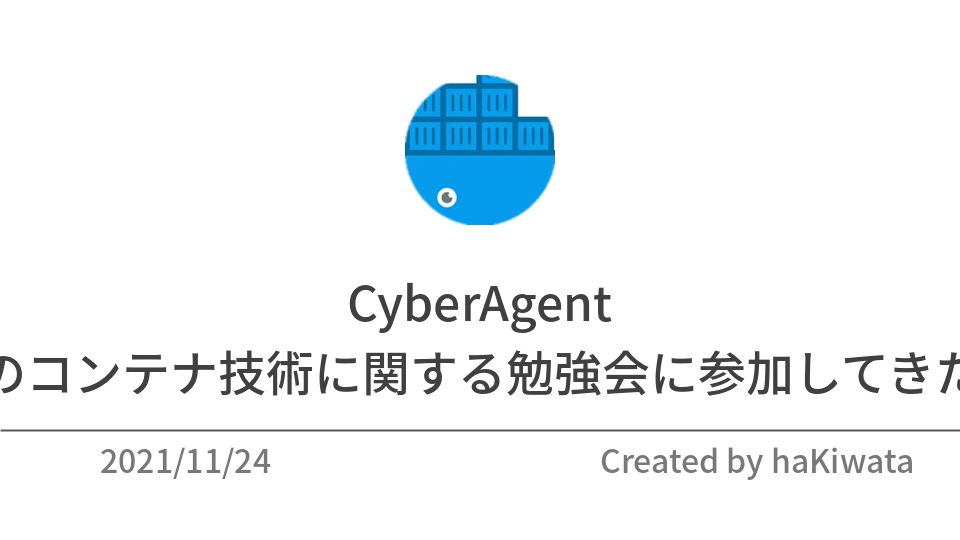
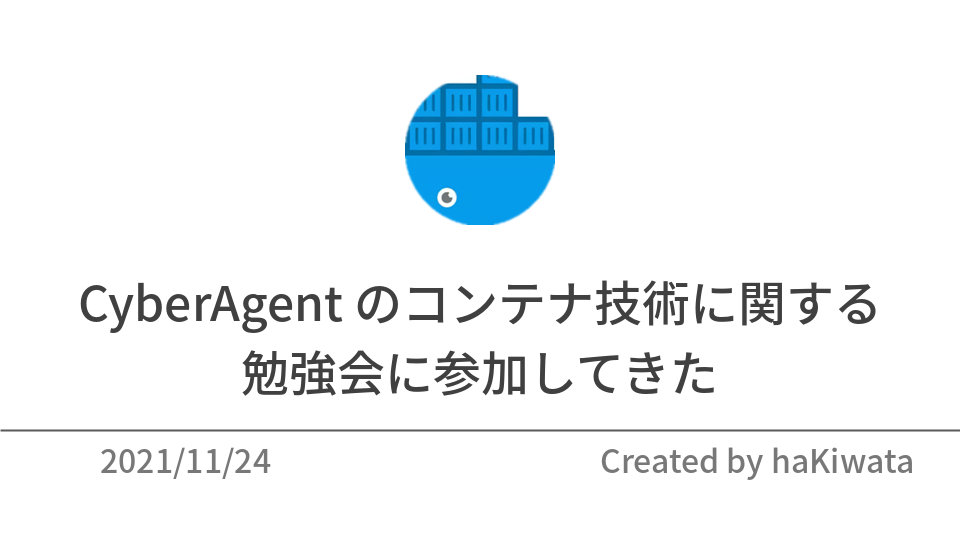
deploy: c742d2cb622a69f9c244a3b917fd591c2d45343e

Changed region(s): [[0.0, 0.6519, 0.875, 0.7407], [0.0625, 0.5037, 0.9375, 0.6222], [0.875, 0.6519, 1.0, 0.7407]]

diff --git a/post/20211124/index.html b/post/20211124/index.html
@@ -1,4 +1,8 @@
-<!doctype html><html lang=en><head><meta charset=utf-8><meta name=viewport content="width=device-width,initial-scale=1"><meta name=generator content="Hugo 0.83.1"><title>CyberAgent のコンテナ技術に関する勉強会に参加してきた - haKiwata</title><meta name=description content="概要  先日 2021/11/24 に CyberAgent が主催するCA 1Day Youth Boot Camp バックエンド/インフラエンジニア編：現場で使うコンテナ技術、Kubernetes＆コンテナ入門と言う勉強会に参加してきました。これは、CyberAgent での社内の研修を 1 日体験できるイベントでした。今回は、その参加記を書きたいと思います。  参加したキッカケ  普段から Docker や Kubenetes を活用して趣味のプログラムや研究のコードを書いたりしています。しかし、これまでこれらの技術はほとんど独学で勉強をしてきました。そのため、自分の理解のレベル感が客観的に把握したことがありませんでした。また、最近 ES を書いたり外部の勉強会に参加するといった活動をしていませんでした。そんな時に、Twitter でたまたまこのイベントを見つけ、久しぶりにこういったチャンスに挑んでみたいと思い参加してみました。  学んだこと  Kubernetes の基礎編 で Kubernetes の基本的なコンセプトや原理を復習できました。 コンテナレジストリのミラーリポジトリに mirror.gcr.io 活用すると、Docker Hub のレート制限を抑えることができることを初めて知りました。 Kubernetes in Docker (kind) と言う Docker コンテナのノードを使ってローカルに Kubernetes クラスタを実行するためのツールを初めて知りました。 kubectl edit コマンドや kubectl run コマンドを始めて使いました。 Kubernetes 内の Pod からしかアクセスできない Pod に対して、busybox と kubectl run コマンドを用いたデバッグを初めて知りました。  感想  学んだことに書いたように、知らなかったことをたくさん知るキッカケになりました。また、特に Kubernetes の研修に関しては、CyberAgentHack/one-day-youth-bootcamp-ciu にある演習問題を解いて手を動かす時間も設けられていたので、とても楽しかったです！ (演習問題は簡単でした。) しかし、この勉強会で学んだことと実際に現場で必要な知識や技術力にはかなり乖離があると感じました。そのため、Kubernetes を実際に運用するレベルのアプリケーションの実装を検討してみたいと思いました🤞  参考  コンテナ技術入門 Kubernetes の基礎編 CyberAgentHack/one-day-youth-bootcamp-ciu Container Registry の Docker Hub ミラーの使用 kind busybox どのリクエストにも決まったレスポンスを返す、http-echoサーバー  "><link rel="shortcut icon" href=https://hakiwata.jp/img/images/favicon.ico><link rel=stylesheet href=https://hakiwata.jp/css/ui.css><link rel=stylesheet href=https://hakiwata.jp/css/main.css><link rel=stylesheet href="https://fonts.googleapis.com/css?family=Fira+Mono|Lato|Raleway"><meta property="og:title" content="CyberAgent のコンテナ技術に関する勉強会に参加してきた"><meta property="og:description" content="概要  先日 2021/11/24 に CyberAgent が主催するCA 1Day Youth Boot Camp バックエンド/インフラエンジニア編：現場で使うコンテナ技術、Kubernetes＆コンテナ入門と言う勉強会に参加してきました。これは、CyberAgent での社内の研修を 1 日体験できるイベントでした。今回は、その参加記を書きたいと思います。  参加したキッカケ  普段から Docker や Kubenetes を活用して趣味のプログラムや研究のコードを書いたりしています。しかし、これまでこれらの技術はほとんど独学で勉強をしてきました。そのため、自分の理解のレベル感が客観的に把握したことがありませんでした。また、最近 ES を書いたり外部の勉強会に参加するといった活動をしていませんでした。そんな時に、Twitter でたまたまこのイベントを見つけ、久しぶりにこういったチャンスに挑んでみたいと思い参加してみました。  学んだこと  Kubernetes の基礎編 で Kubernetes の基本的なコンセプトや原理を復習できました。 コンテナレジストリのミラーリポジトリに mirror.gcr.io 活用すると、Docker Hub のレート制限を抑えることができることを初めて知りました。 Kubernetes in Docker (kind) と言う Docker コンテナのノードを使ってローカルに Kubernetes クラスタを実行するためのツールを初めて知りました。 kubectl edit コマンドや kubectl run コマンドを始めて使いました。 Kubernetes 内の Pod からしかアクセスできない Pod に対して、busybox と kubectl run コマンドを用いたデバッグを初めて知りました。  感想  学んだことに書いたように、知らなかったことをたくさん知るキッカケになりました。また、特に Kubernetes の研修に関しては、CyberAgentHack/one-day-youth-bootcamp-ciu にある演習問題を解いて手を動かす時間も設けられていたので、とても楽しかったです！ (演習問題は簡単でした。) しかし、この勉強会で学んだことと実際に現場で必要な知識や技術力にはかなり乖離があると感じました。そのため、Kubernetes を実際に運用するレベルのアプリケーションの実装を検討してみたいと思いました🤞  参考  コンテナ技術入門 Kubernetes の基礎編 CyberAgentHack/one-day-youth-bootcamp-ciu Container Registry の Docker Hub ミラーの使用 kind busybox どのリクエストにも決まったレスポンスを返す、http-echoサーバー  "><meta property="og:type" content="article"><meta property="og:url" content="https://hakiwata.jp/post/20211124/"><meta property="og:image" content="https://hakiwata.jp/"><meta property="article:section" content="post"><meta property="article:published_time" content="2021-11-30T18:35:39+00:00"><meta property="article:modified_time" content="2021-11-30T18:35:39+00:00"><meta name=twitter:card content="summary_large_image"><meta name=twitter:site content="@bilmnpvovqnmlid"><meta name=twitter:creator content="@bilmnpvovqnmlid"><meta property="twitter:image" content="https://hakiwata.jp/img/images/20211124.png"><meta property="og:title" content="CyberAgent のコンテナ技術に関する勉強会に参加してきた"><meta property="og:url" content="https://hakiwata.jp/post/20211124/"><meta property="og:image" content="https://hakiwata.jp/img/images/20211124.png"><meta property="og:description" content><script async src="https://www.googletagmanager.com/gtag/js?id=G-YXCYPL25QW"></script><script>var doNotTrack=!1;if(!doNotTrack){window.dataLayer=window.dataLayer||[];function gtag(){dataLayer.push(arguments)}gtag('js',new Date),gtag('config','G-YXCYPL25QW',{anonymize_ip:!1})}</script></head><body><header class="container no-print"><div class=u-header><nav class=bar><ul><li><a href=https://hakiwata.jp/><img class=icon-text src=https://hakiwata.jp/img/prev.svg></a></li><li><a href=https://hakiwata.jp/about>About</a></li><li><a href=https://hakiwata.jp/log>Log</a></li><li><a href=https://hakiwata.jp/post>Post</a></li><li><a href=https://hakiwata.jp/scraps>Scraps</a></li><li><a href=https://hakiwata.jp/tags>Tags</a></li></ul></nav></div></header><main class=container><article><header><hgroup id=brand><h1>CyberAgent のコンテナ技術に関する勉強会に参加してきた</h1><h5><time datetime="2021-11-30 18:35:39 +0000 UTC">Nov 30, 2021</time>
+<!doctype html><html lang=en><head><meta charset=utf-8><meta name=viewport content="width=device-width,initial-scale=1"><meta name=generator content="Hugo 0.83.1"><title>CyberAgent のコンテナ技術に関する
+勉強会に参加してきた - haKiwata</title><meta name=description content="概要  先日 2021/11/24 に CyberAgent が主催するCA 1Day Youth Boot Camp バックエンド/インフラエンジニア編：現場で使うコンテナ技術、Kubernetes＆コンテナ入門と言う勉強会に参加してきました。これは、CyberAgent での社内の研修を 1 日体験できるイベントでした。今回は、その参加記を書きたいと思います。  参加したキッカケ  普段から Docker や Kubenetes を活用して趣味のプログラムや研究のコードを書いたりしています。しかし、これまでこれらの技術はほとんど独学で勉強をしてきました。そのため、自分の理解のレベル感が客観的に把握したことがありませんでした。また、最近 ES を書いたり外部の勉強会に参加するといった活動をしていませんでした。そんな時に、Twitter でたまたまこのイベントを見つけ、久しぶりにこういったチャンスに挑んでみたいと思い参加してみました。  学んだこと  Kubernetes の基礎編 で Kubernetes の基本的なコンセプトや原理を復習できました。 コンテナレジストリのミラーリポジトリに mirror.gcr.io 活用すると、Docker Hub のレート制限を抑えることができることを初めて知りました。 Kubernetes in Docker (kind) と言う Docker コンテナのノードを使ってローカルに Kubernetes クラスタを実行するためのツールを初めて知りました。 kubectl edit コマンドや kubectl run コマンドを始めて使いました。 Kubernetes 内の Pod からしかアクセスできない Pod に対して、busybox と kubectl run コマンドを用いたデバッグを初めて知りました。  感想  学んだことに書いたように、知らなかったことをたくさん知るキッカケになりました。また、特に Kubernetes の研修に関しては、CyberAgentHack/one-day-youth-bootcamp-ciu にある演習問題を解いて手を動かす時間も設けられていたので、とても楽しかったです！ (演習問題は簡単でした。) しかし、この勉強会で学んだことと実際に現場で必要な知識や技術力にはかなり乖離があると感じました。そのため、Kubernetes を実際に運用するレベルのアプリケーションの実装を検討してみたいと思いました🤞  参考  コンテナ技術入門 Kubernetes の基礎編 CyberAgentHack/one-day-youth-bootcamp-ciu Container Registry の Docker Hub ミラーの使用 kind busybox どのリクエストにも決まったレスポンスを返す、http-echoサーバー  "><link rel="shortcut icon" href=https://hakiwata.jp/img/images/favicon.ico><link rel=stylesheet href=https://hakiwata.jp/css/ui.css><link rel=stylesheet href=https://hakiwata.jp/css/main.css><link rel=stylesheet href="https://fonts.googleapis.com/css?family=Fira+Mono|Lato|Raleway"><meta property="og:title" content="CyberAgent のコンテナ技術に関する
+勉強会に参加してきた"><meta property="og:description" content="概要  先日 2021/11/24 に CyberAgent が主催するCA 1Day Youth Boot Camp バックエンド/インフラエンジニア編：現場で使うコンテナ技術、Kubernetes＆コンテナ入門と言う勉強会に参加してきました。これは、CyberAgent での社内の研修を 1 日体験できるイベントでした。今回は、その参加記を書きたいと思います。  参加したキッカケ  普段から Docker や Kubenetes を活用して趣味のプログラムや研究のコードを書いたりしています。しかし、これまでこれらの技術はほとんど独学で勉強をしてきました。そのため、自分の理解のレベル感が客観的に把握したことがありませんでした。また、最近 ES を書いたり外部の勉強会に参加するといった活動をしていませんでした。そんな時に、Twitter でたまたまこのイベントを見つけ、久しぶりにこういったチャンスに挑んでみたいと思い参加してみました。  学んだこと  Kubernetes の基礎編 で Kubernetes の基本的なコンセプトや原理を復習できました。 コンテナレジストリのミラーリポジトリに mirror.gcr.io 活用すると、Docker Hub のレート制限を抑えることができることを初めて知りました。 Kubernetes in Docker (kind) と言う Docker コンテナのノードを使ってローカルに Kubernetes クラスタを実行するためのツールを初めて知りました。 kubectl edit コマンドや kubectl run コマンドを始めて使いました。 Kubernetes 内の Pod からしかアクセスできない Pod に対して、busybox と kubectl run コマンドを用いたデバッグを初めて知りました。  感想  学んだことに書いたように、知らなかったことをたくさん知るキッカケになりました。また、特に Kubernetes の研修に関しては、CyberAgentHack/one-day-youth-bootcamp-ciu にある演習問題を解いて手を動かす時間も設けられていたので、とても楽しかったです！ (演習問題は簡単でした。) しかし、この勉強会で学んだことと実際に現場で必要な知識や技術力にはかなり乖離があると感じました。そのため、Kubernetes を実際に運用するレベルのアプリケーションの実装を検討してみたいと思いました🤞  参考  コンテナ技術入門 Kubernetes の基礎編 CyberAgentHack/one-day-youth-bootcamp-ciu Container Registry の Docker Hub ミラーの使用 kind busybox どのリクエストにも決まったレスポンスを返す、http-echoサーバー  "><meta property="og:type" content="article"><meta property="og:url" content="https://hakiwata.jp/post/20211124/"><meta property="og:image" content="https://hakiwata.jp/"><meta property="article:section" content="post"><meta property="article:published_time" content="2021-11-30T18:35:39+00:00"><meta property="article:modified_time" content="2021-11-30T18:35:39+00:00"><meta name=twitter:card content="summary_large_image"><meta name=twitter:site content="@bilmnpvovqnmlid"><meta name=twitter:creator content="@bilmnpvovqnmlid"><meta property="twitter:image" content="https://hakiwata.jp/img/images/20211124.png"><meta property="og:title" content="CyberAgent のコンテナ技術に関する
+勉強会に参加してきた"><meta property="og:url" content="https://hakiwata.jp/post/20211124/"><meta property="og:image" content="https://hakiwata.jp/img/images/20211124.png"><meta property="og:description" content><script async src="https://www.googletagmanager.com/gtag/js?id=G-YXCYPL25QW"></script><script>var doNotTrack=!1;if(!doNotTrack){window.dataLayer=window.dataLayer||[];function gtag(){dataLayer.push(arguments)}gtag('js',new Date),gtag('config','G-YXCYPL25QW',{anonymize_ip:!1})}</script></head><body><header class="container no-print"><div class=u-header><nav class=bar><ul><li><a href=https://hakiwata.jp/><img class=icon-text src=https://hakiwata.jp/img/prev.svg></a></li><li><a href=https://hakiwata.jp/about>About</a></li><li><a href=https://hakiwata.jp/log>Log</a></li><li><a href=https://hakiwata.jp/post>Post</a></li><li><a href=https://hakiwata.jp/scraps>Scraps</a></li><li><a href=https://hakiwata.jp/tags>Tags</a></li></ul></nav></div></header><main class=container><article><header><hgroup id=brand><h1>CyberAgent のコンテナ技術に関する
+勉強会に参加してきた</h1><h5><time datetime="2021-11-30 18:35:39 +0000 UTC">Nov 30, 2021</time>
 <span class=no-print>-
 <a href=https://hakiwata.jp/tags/cyberagent>CyberAgent</a>
 <a href=https://hakiwata.jp/tags/docker>Docker</a>

diff --git a/post/20211110/index.html b/post/20211110/index.html
@@ -8,7 +8,8 @@
 <a href=https://hakiwata.jp/tags/docker-compose>docker-compose</a>
 <span></h5></hgroup><hr class=sep></header><h2 id=概要>概要</h2><ul><li>こんにちは！このブログを立ち上げてから約半年が経ちました。カスタマイズ性が高く簡単に運用できています。また、自分の書いた記事が積み重なっていく様子が可視化されるのが単純に嬉しいので、定期的なアウトプットに役立っています。そこで、今回はこのブログを作成するにあたって使用した技術などについて改めて振り返りたいと思います。</li></ul><h2 id=背景>背景</h2><ul><li>このブログには様々な機能を加えたりして工夫を行っています。具体的には以下の 8 つが挙げられます。過去にブログにまとめた記事もあるので、それ以外を補足しつつどう工夫してこのブログが成り立っているかについて説明したいと思います。</li></ul><ol><li><a href=https://hakiwata.jp/post/20210430/>Hugo と GitHub Pages を用いて開発</a></li><li>自動でデプロイするフローの導入 (CI/CD の構築)</li><li><a href=https://hakiwata.jp/post/20210611/>テンプレートを修正する</a></li><li><a href=https://hakiwata.jp/post/20210911/>他のリポジトリとの連携</a></li><li><a href=https://hakiwata.jp/post/20210628/>開発環境の Docker 化</a></li><li><a href=https://hakiwata.jp/post/20210624/>バグの調査</a></li><li>Google Analytics の導入</li><li>OGP の作成</li></ol><ul><li><p>まず、1 に関して補足して説明します。このブログ (ポートフォリオ) は第三世代になります。第一世代は React + GitHub Pages のシンプルな構成で運用していました。あまり頻繁に更新するものでもなかったのですが、自動デプロイのパイプラインは構築していました。リポジトリは <a href=https://github.com/dilmnqvovpnmlib/dilmnqvovpnmlib/tree/master>dilmnqvovpnmlib</a> になります。第二世代は、React + Django + EC2 で運用していました。これは、単純にフロントエンドとバックエンドを分割させた形のアプリケーションを実装したかったという意図もあり、このような構成となりました。各アプリケーションは Docker と docker-compose を使用して Nginx のコンテナを経由して通信します。リポジトリは <a href=https://github.com/dilmnqvovpnmlib/hk-41>hk-41</a> になります。これらの 2 つのポートフォリオには単純に自己紹介をするページしかなく、ブログを投稿する機能がありませんでした。そこで、楽に運用でき拡張性も高い Hugo と GitHub Pages で新しく作り直したのがこのブログでした。</p></li><li><p>次に、2 に関して補足して説明します。<code>main ブランチ</code> に <code>About</code> と <code>Post</code> と <code>Scraps</code> の修正コードを push すると、GitHub Actions 上で設定したパイプラインが走ります。そうすると、ソースコードをビルドし自動でデプロイしてくれるようなフローを構築しています。この結果、デプロイのコマンドを逐一思い出す必要がなく、属人性を省いたデプロイができて嬉しいです。このブログは基本的には自分しか操作しない想定で作られています。そのため、プルリクを作成し、複数人の Approve を得てからデプロイを行うといった実務的なフローは構築していません。</p></li><li><p>最後に、8 に関して補足して説明します。このブログでは、各エントリに応じた OGP を生成したいと思っていました。特に各エントリのタイトルと日付を OGP に組み込む方針でした。この方針に基づき、2 のデプロイする直前に GitHub Actions 上で OGP を作成する Python のスクリプトが走るようになっています。こうして OGP の作成の自動化を図っています。また、OGP を作成するフローは以下のようになります。</p></li></ul><p><img src=create-ogp-image.png alt=create-ogp-image.png></p><h2 id=最後に>最後に</h2><ul><li>この記事を書き上げた時点で 18 エントリも積み上げることができました。初めはこのブログ自体を作るのが面倒くさかったのですが、定期的にアウトプットをすることができ、今ではこのブログを作って良かったと思っています。まだまだアウトプットしたいネタがたくさん溜まっているので、時間を見つけて書き上げていきたいと思います🤞</li></ul></article><nav class="no-print post-nav"><a class=prev-post href=https://hakiwata.jp/post/20211018/><img class=icon-text src=https://hakiwata.jp/img/prev.svg>ゼロからのOS自作入門を読んで
 OS を実装してみた</a>
-<a class=next-post href=https://hakiwata.jp/post/20211124/>CyberAgent のコンテナ技術に関する勉強会に参加してきた<img class=icon-text src=https://hakiwata.jp/img/next.svg></a></nav><section id=related><h4>See Also</h4><ul><li><a href=https://hakiwata.jp/post/20210628/>自作ブログの開発環境を
+<a class=next-post href=https://hakiwata.jp/post/20211124/>CyberAgent のコンテナ技術に関する
+勉強会に参加してきた<img class=icon-text src=https://hakiwata.jp/img/next.svg></a></nav><section id=related><h4>See Also</h4><ul><li><a href=https://hakiwata.jp/post/20210628/>自作ブログの開発環境を
 Docker で移行した</a></li><li><a href=https://hakiwata.jp/post/20210911/>自作 OS のリポジトリの README.md を自動更新する</a></li><li><a href=https://hakiwata.jp/post/20210624/>Hugo で Markdown が上手く Parse されない原因を調査してみた</a></li></ul></section><hr class=sep></main><footer class="container no-print"><div class=u-footer><a href=https://github.com/dilmnqvovpnmlib><img class=icon-social src=https://hakiwata.jp/img/github.svg alt=Github></a>
 <a href=https://twitter.com/bilmnpvovqnmlid><img class=icon-social src=https://hakiwata.jp/img/twitter.svg alt=Twitter></a>
 <a href=https://hakiwata.jp/index.xml target=_blank><img class=icon-social src=https://hakiwata.jp/img/feed.svg alt=Feed></a><p>&copy; 2021 haKiwata</p><a href=#brand><img class=icon-text src=https://hakiwata.jp/img/toup.svg alt="To Up">

diff --git a/tags/cyberagent/index.html b/tags/cyberagent/index.html
@@ -1,5 +1,6 @@
 <!doctype html><html lang=en><head><meta charset=utf-8><meta name=viewport content="width=device-width,initial-scale=1"><meta name=generator content="Hugo 0.83.1"><title>CyberAgent - haKiwata</title><meta name=description content><link rel="shortcut icon" href=https://hakiwata.jp/img/images/favicon.ico><link rel=stylesheet href=https://hakiwata.jp/css/ui.css><link rel=stylesheet href=https://hakiwata.jp/css/main.css><link rel=stylesheet href="https://fonts.googleapis.com/css?family=Fira+Mono|Lato|Raleway"><meta property="og:title" content="CyberAgent"><meta property="og:description" content="haKiwata's Website."><meta property="og:type" content="website"><meta property="og:url" content="https://hakiwata.jp/tags/cyberagent/"><meta property="og:image" content="https://hakiwata.jp/"><meta name=twitter:card content="summary_large_image"><meta name=twitter:site content="@bilmnpvovqnmlid"><meta name=twitter:creator content="@bilmnpvovqnmlid"><meta property="twitter:image" content="https://hakiwata.jp/img/images/kiwata_partly.png"><meta property="og:title" content="CyberAgent"><meta property="og:url" content="https://hakiwata.jp/tags/cyberagent/"><meta property="og:image" content="https://hakiwata.jp/img/images/kiwata_partly.png"><meta property="og:description" content><script async src="https://www.googletagmanager.com/gtag/js?id=G-YXCYPL25QW"></script><script>var doNotTrack=!1;if(!doNotTrack){window.dataLayer=window.dataLayer||[];function gtag(){dataLayer.push(arguments)}gtag('js',new Date),gtag('config','G-YXCYPL25QW',{anonymize_ip:!1})}</script></head><body><header class="container no-print"><div class=u-header><nav class=bar><ul><li><a href=https://hakiwata.jp/><img class=icon-text src=https://hakiwata.jp/img/prev.svg></a></li><li><a href=https://hakiwata.jp/about>About</a></li><li><a href=https://hakiwata.jp/log>Log</a></li><li><a href=https://hakiwata.jp/post>Post</a></li><li><a href=https://hakiwata.jp/scraps>Scraps</a></li><li><a href=https://hakiwata.jp/tags>Tags</a></li></ul></nav></div></header><main class=container><article><header><hgroup id=brand><h1>CyberAgent</h1></hgroup><hr class=sep></header><ul class=no-bullet><li><span><time datetime="2021-11-30 18:35:39 +0000 UTC">Nov 30, 2021</time></span>
-<a href=https://hakiwata.jp/post/20211124/>CyberAgent のコンテナ技術に関する勉強会に参加してきた</a></li></ul></article><hr class=sep></main><footer class="container no-print"><div class=u-footer><a href=https://github.com/dilmnqvovpnmlib><img class=icon-social src=https://hakiwata.jp/img/github.svg alt=Github></a>
+<a href=https://hakiwata.jp/post/20211124/>CyberAgent のコンテナ技術に関する
+勉強会に参加してきた</a></li></ul></article><hr class=sep></main><footer class="container no-print"><div class=u-footer><a href=https://github.com/dilmnqvovpnmlib><img class=icon-social src=https://hakiwata.jp/img/github.svg alt=Github></a>
 <a href=https://twitter.com/bilmnpvovqnmlid><img class=icon-social src=https://hakiwata.jp/img/twitter.svg alt=Twitter></a>
 <a href=https://hakiwata.jp/index.xml target=_blank><img class=icon-social src=https://hakiwata.jp/img/feed.svg alt=Feed></a><p>&copy; 2021 haKiwata</p><a href=#brand><img class=icon-text src=https://hakiwata.jp/img/toup.svg alt="To Up">
 <span>Back to Up</span></a></div></footer></body></html>

diff --git a/tags/kubernetes/index.html b/tags/kubernetes/index.html
@@ -1,5 +1,6 @@
 <!doctype html><html lang=en><head><meta charset=utf-8><meta name=viewport content="width=device-width,initial-scale=1"><meta name=generator content="Hugo 0.83.1"><title>Kubernetes - haKiwata</title><meta name=description content><link rel="shortcut icon" href=https://hakiwata.jp/img/images/favicon.ico><link rel=stylesheet href=https://hakiwata.jp/css/ui.css><link rel=stylesheet href=https://hakiwata.jp/css/main.css><link rel=stylesheet href="https://fonts.googleapis.com/css?family=Fira+Mono|Lato|Raleway"><meta property="og:title" content="Kubernetes"><meta property="og:description" content="haKiwata's Website."><meta property="og:type" content="website"><meta property="og:url" content="https://hakiwata.jp/tags/kubernetes/"><meta property="og:image" content="https://hakiwata.jp/"><meta name=twitter:card content="summary_large_image"><meta name=twitter:site content="@bilmnpvovqnmlid"><meta name=twitter:creator content="@bilmnpvovqnmlid"><meta property="twitter:image" content="https://hakiwata.jp/img/images/kiwata_partly.png"><meta property="og:title" content="Kubernetes"><meta property="og:url" content="https://hakiwata.jp/tags/kubernetes/"><meta property="og:image" content="https://hakiwata.jp/img/images/kiwata_partly.png"><meta property="og:description" content><script async src="https://www.googletagmanager.com/gtag/js?id=G-YXCYPL25QW"></script><script>var doNotTrack=!1;if(!doNotTrack){window.dataLayer=window.dataLayer||[];function gtag(){dataLayer.push(arguments)}gtag('js',new Date),gtag('config','G-YXCYPL25QW',{anonymize_ip:!1})}</script></head><body><header class="container no-print"><div class=u-header><nav class=bar><ul><li><a href=https://hakiwata.jp/><img class=icon-text src=https://hakiwata.jp/img/prev.svg></a></li><li><a href=https://hakiwata.jp/about>About</a></li><li><a href=https://hakiwata.jp/log>Log</a></li><li><a href=https://hakiwata.jp/post>Post</a></li><li><a href=https://hakiwata.jp/scraps>Scraps</a></li><li><a href=https://hakiwata.jp/tags>Tags</a></li></ul></nav></div></header><main class=container><article><header><hgroup id=brand><h1>Kubernetes</h1></hgroup><hr class=sep></header><ul class=no-bullet><li><span><time datetime="2021-11-30 18:35:39 +0000 UTC">Nov 30, 2021</time></span>
-<a href=https://hakiwata.jp/post/20211124/>CyberAgent のコンテナ技術に関する勉強会に参加してきた</a></li></ul></article><hr class=sep></main><footer class="container no-print"><div class=u-footer><a href=https://github.com/dilmnqvovpnmlib><img class=icon-social src=https://hakiwata.jp/img/github.svg alt=Github></a>
+<a href=https://hakiwata.jp/post/20211124/>CyberAgent のコンテナ技術に関する
+勉強会に参加してきた</a></li></ul></article><hr class=sep></main><footer class="container no-print"><div class=u-footer><a href=https://github.com/dilmnqvovpnmlib><img class=icon-social src=https://hakiwata.jp/img/github.svg alt=Github></a>
 <a href=https://twitter.com/bilmnpvovqnmlid><img class=icon-social src=https://hakiwata.jp/img/twitter.svg alt=Twitter></a>
 <a href=https://hakiwata.jp/index.xml target=_blank><img class=icon-social src=https://hakiwata.jp/img/feed.svg alt=Feed></a><p>&copy; 2021 haKiwata</p><a href=#brand><img class=icon-text src=https://hakiwata.jp/img/toup.svg alt="To Up">
 <span>Back to Up</span></a></div></footer></body></html>

diff --git a/tags/docker/index.html b/tags/docker/index.html
@@ -1,5 +1,6 @@
 <!doctype html><html lang=en><head><meta charset=utf-8><meta name=viewport content="width=device-width,initial-scale=1"><meta name=generator content="Hugo 0.83.1"><title>Docker - haKiwata</title><meta name=description content><link rel="shortcut icon" href=https://hakiwata.jp/img/images/favicon.ico><link rel=stylesheet href=https://hakiwata.jp/css/ui.css><link rel=stylesheet href=https://hakiwata.jp/css/main.css><link rel=stylesheet href="https://fonts.googleapis.com/css?family=Fira+Mono|Lato|Raleway"><meta property="og:title" content="Docker"><meta property="og:description" content="haKiwata's Website."><meta property="og:type" content="website"><meta property="og:url" content="https://hakiwata.jp/tags/docker/"><meta property="og:image" content="https://hakiwata.jp/"><meta name=twitter:card content="summary_large_image"><meta name=twitter:site content="@bilmnpvovqnmlid"><meta name=twitter:creator content="@bilmnpvovqnmlid"><meta property="twitter:image" content="https://hakiwata.jp/img/images/kiwata_partly.png"><meta property="og:title" content="Docker"><meta property="og:url" content="https://hakiwata.jp/tags/docker/"><meta property="og:image" content="https://hakiwata.jp/img/images/kiwata_partly.png"><meta property="og:description" content><script async src="https://www.googletagmanager.com/gtag/js?id=G-YXCYPL25QW"></script><script>var doNotTrack=!1;if(!doNotTrack){window.dataLayer=window.dataLayer||[];function gtag(){dataLayer.push(arguments)}gtag('js',new Date),gtag('config','G-YXCYPL25QW',{anonymize_ip:!1})}</script></head><body><header class="container no-print"><div class=u-header><nav class=bar><ul><li><a href=https://hakiwata.jp/><img class=icon-text src=https://hakiwata.jp/img/prev.svg></a></li><li><a href=https://hakiwata.jp/about>About</a></li><li><a href=https://hakiwata.jp/log>Log</a></li><li><a href=https://hakiwata.jp/post>Post</a></li><li><a href=https://hakiwata.jp/scraps>Scraps</a></li><li><a href=https://hakiwata.jp/tags>Tags</a></li></ul></nav></div></header><main class=container><article><header><hgroup id=brand><h1>Docker</h1></hgroup><hr class=sep></header><ul class=no-bullet><li><span><time datetime="2021-11-30 18:35:39 +0000 UTC">Nov 30, 2021</time></span>
-<a href=https://hakiwata.jp/post/20211124/>CyberAgent のコンテナ技術に関する勉強会に参加してきた</a></li><li><span><time datetime="2021-11-10 11:17:18 +0000 UTC">Nov 10, 2021</time></span>
+<a href=https://hakiwata.jp/post/20211124/>CyberAgent のコンテナ技術に関する
+勉強会に参加してきた</a></li><li><span><time datetime="2021-11-10 11:17:18 +0000 UTC">Nov 10, 2021</time></span>
 <a href=https://hakiwata.jp/post/20211110/>このブログで使用した技術について</a></li><li><span><time datetime="2021-06-26 20:39:56 +0000 UTC">Jun 26, 2021</time></span>
 <a href=https://hakiwata.jp/post/20210628/>自作ブログの開発環境を
 Docker で移行した</a></li></ul></article><hr class=sep></main><footer class="container no-print"><div class=u-footer><a href=https://github.com/dilmnqvovpnmlib><img class=icon-social src=https://hakiwata.jp/img/github.svg alt=Github></a>

diff --git a/post/index.html b/post/index.html
@@ -1,5 +1,6 @@
 <!doctype html><html lang=en><head><meta charset=utf-8><meta name=viewport content="width=device-width,initial-scale=1"><meta name=generator content="Hugo 0.83.1"><title>Blog - haKiwata</title><meta name=description content><link rel="shortcut icon" href=https://hakiwata.jp/img/images/favicon.ico><link rel=stylesheet href=https://hakiwata.jp/css/ui.css><link rel=stylesheet href=https://hakiwata.jp/css/main.css><link rel=stylesheet href="https://fonts.googleapis.com/css?family=Fira+Mono|Lato|Raleway"><meta property="og:title" content="Blog"><meta property="og:description" content="haKiwata's Website."><meta property="og:type" content="website"><meta property="og:url" content="https://hakiwata.jp/post/"><meta property="og:image" content="https://hakiwata.jp/"><meta name=twitter:card content="summary_large_image"><meta name=twitter:site content="@bilmnpvovqnmlid"><meta name=twitter:creator content="@bilmnpvovqnmlid"><meta property="twitter:image" content="https://hakiwata.jp/img/images/kiwata_partly.png"><meta property="og:title" content="Blog"><meta property="og:url" content="https://hakiwata.jp/post/"><meta property="og:image" content="https://hakiwata.jp/img/images/kiwata_partly.png"><meta property="og:description" content><script async src="https://www.googletagmanager.com/gtag/js?id=G-YXCYPL25QW"></script><script>var doNotTrack=!1;if(!doNotTrack){window.dataLayer=window.dataLayer||[];function gtag(){dataLayer.push(arguments)}gtag('js',new Date),gtag('config','G-YXCYPL25QW',{anonymize_ip:!1})}</script></head><body><header class="container no-print"><div class=u-header><nav class=bar><ul><li><a href=https://hakiwata.jp/><img class=icon-text src=https://hakiwata.jp/img/prev.svg></a></li><li><a href=https://hakiwata.jp/about>About</a></li><li><a href=https://hakiwata.jp/log>Log</a></li><li><a href=https://hakiwata.jp/post>Post</a></li><li><a href=https://hakiwata.jp/scraps>Scraps</a></li><li><a href=https://hakiwata.jp/tags>Tags</a></li></ul></nav></div></header><main class=container><article><header><hgroup id=brand><h1>Blog</h1></hgroup><hr class=sep></header><ul class=no-bullet><li><span><time datetime="2021-11-30 18:35:39 +0000 UTC">Nov 30, 2021</time></span>
-<a href=https://hakiwata.jp/post/20211124/>CyberAgent のコンテナ技術に関する勉強会に参加してきた</a></li><li><span><time datetime="2021-11-10 11:17:18 +0000 UTC">Nov 10, 2021</time></span>
+<a href=https://hakiwata.jp/post/20211124/>CyberAgent のコンテナ技術に関する
+勉強会に参加してきた</a></li><li><span><time datetime="2021-11-10 11:17:18 +0000 UTC">Nov 10, 2021</time></span>
 <a href=https://hakiwata.jp/post/20211110/>このブログで使用した技術について</a></li><li><span><time datetime="2021-10-17 19:29:55 +0000 UTC">Oct 17, 2021</time></span>
 <a href=https://hakiwata.jp/post/20211018/>ゼロからのOS自作入門を読んで
 OS を実装してみた</a></li><li><span><time datetime="2021-09-10 15:50:53 +0000 UTC">Sep 10, 2021</time></span>

diff --git a/index.html b/index.html
@@ -1,5 +1,6 @@
 <!doctype html><html lang=en><head><meta charset=utf-8><meta name=viewport content="width=device-width,initial-scale=1"><meta name=generator content="Hugo 0.83.1"><title>haKiwata</title><meta name=description content="haKiwata's Website."><link rel="shortcut icon" href=https://hakiwata.jp/img/images/favicon.ico><link rel=stylesheet href=https://hakiwata.jp/css/ui.css><link rel=stylesheet href=https://hakiwata.jp/css/main.css><link rel=stylesheet href="https://fonts.googleapis.com/css?family=Fira+Mono|Lato|Raleway"><meta property="og:title" content="haKiwata"><meta property="og:description" content="haKiwata's Website."><meta property="og:type" content="website"><meta property="og:url" content="https://hakiwata.jp/"><meta property="og:image" content="https://hakiwata.jp/"><meta name=twitter:card content="summary_large_image"><meta name=twitter:site content="@bilmnpvovqnmlid"><meta name=twitter:creator content="@bilmnpvovqnmlid"><meta property="twitter:image" content="https://hakiwata.jp/img/images/kiwata_partly.png"><meta property="og:title" content="haKiwata"><meta property="og:url" content="https://hakiwata.jp/"><meta property="og:image" content="https://hakiwata.jp/img/images/kiwata_partly.png"><meta property="og:description" content><script async src="https://www.googletagmanager.com/gtag/js?id=G-YXCYPL25QW"></script><script>var doNotTrack=!1;if(!doNotTrack){window.dataLayer=window.dataLayer||[];function gtag(){dataLayer.push(arguments)}gtag('js',new Date),gtag('config','G-YXCYPL25QW',{anonymize_ip:!1})}</script></head><body><header class="container no-print"><div class=u-header><nav class=bar><ul><li><a href=https://hakiwata.jp/about>About</a></li><li><a href=https://hakiwata.jp/log>Log</a></li><li><a href=https://hakiwata.jp/post>Post</a></li><li><a href=https://hakiwata.jp/scraps>Scraps</a></li><li><a href=https://hakiwata.jp/tags>Tags</a></li></ul></nav></div></header><main class=container><article><header><hgroup id=brand><h1>haKiwata</h1><h5>Welcome to my website !</h5></hgroup><hr class=sep></header><section><h4>Latest Posts</h4><ul class=no-bullet><li><span><time datetime="2021-11-30 18:35:39 +0000 UTC">Nov 30, 2021</time></span>
-<a href=https://hakiwata.jp/post/20211124/>CyberAgent のコンテナ技術に関する勉強会に参加してきた</a></li><li><span><time datetime="2021-11-10 11:17:18 +0000 UTC">Nov 10, 2021</time></span>
+<a href=https://hakiwata.jp/post/20211124/>CyberAgent のコンテナ技術に関する
+勉強会に参加してきた</a></li><li><span><time datetime="2021-11-10 11:17:18 +0000 UTC">Nov 10, 2021</time></span>
 <a href=https://hakiwata.jp/post/20211110/>このブログで使用した技術について</a></li><li><span><time datetime="2021-10-17 19:29:55 +0000 UTC">Oct 17, 2021</time></span>
 <a href=https://hakiwata.jp/post/20211018/>ゼロからのOS自作入門を読んで
 OS を実装してみた</a></li><li><span><time datetime="2021-09-10 15:50:53 +0000 UTC">Sep 10, 2021</time></span>
